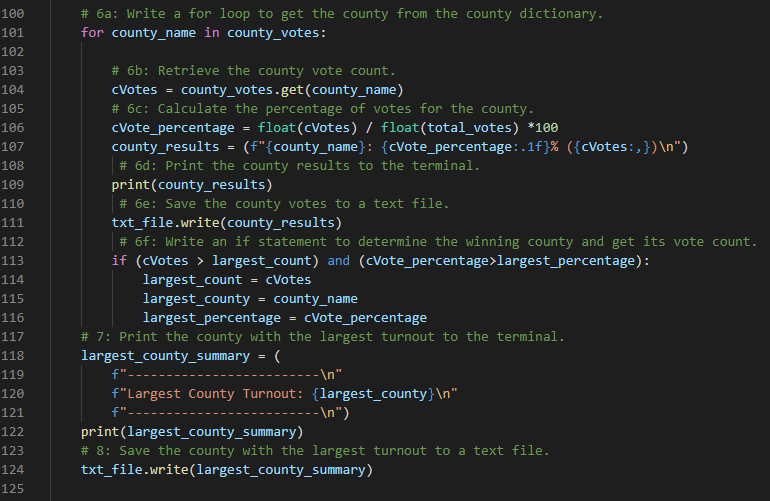
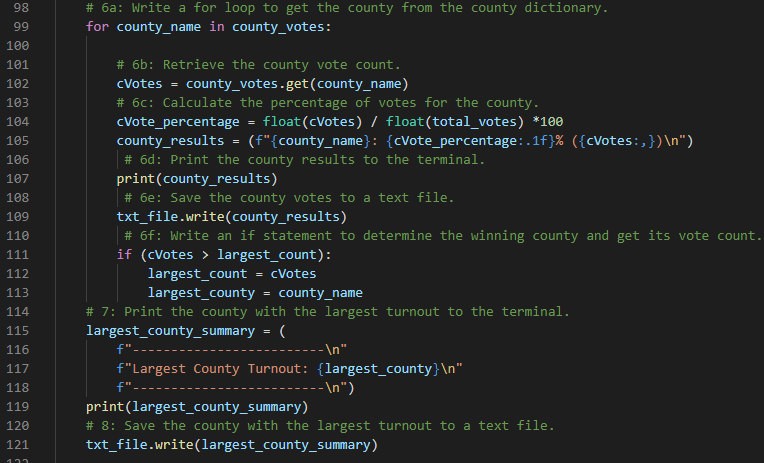
fixed images

Changed region(s): [[0.0903, 0.121, 0.9935, 0.9676], [0.0903, 0.0, 0.7827, 0.0907], [0.0, 0.0, 0.0602, 1.0]]

diff --git a/PyPoll_Challenge.py b/PyPoll_Challenge.py
@@ -30,8 +30,6 @@ winning_percentage = 0
 
 largest_county = ""
 largest_count = 0
-largest_percentage = 0
-
 
 # Read the csv and convert it into a list of dictionaries
 with open(file_to_load) as election_data:
